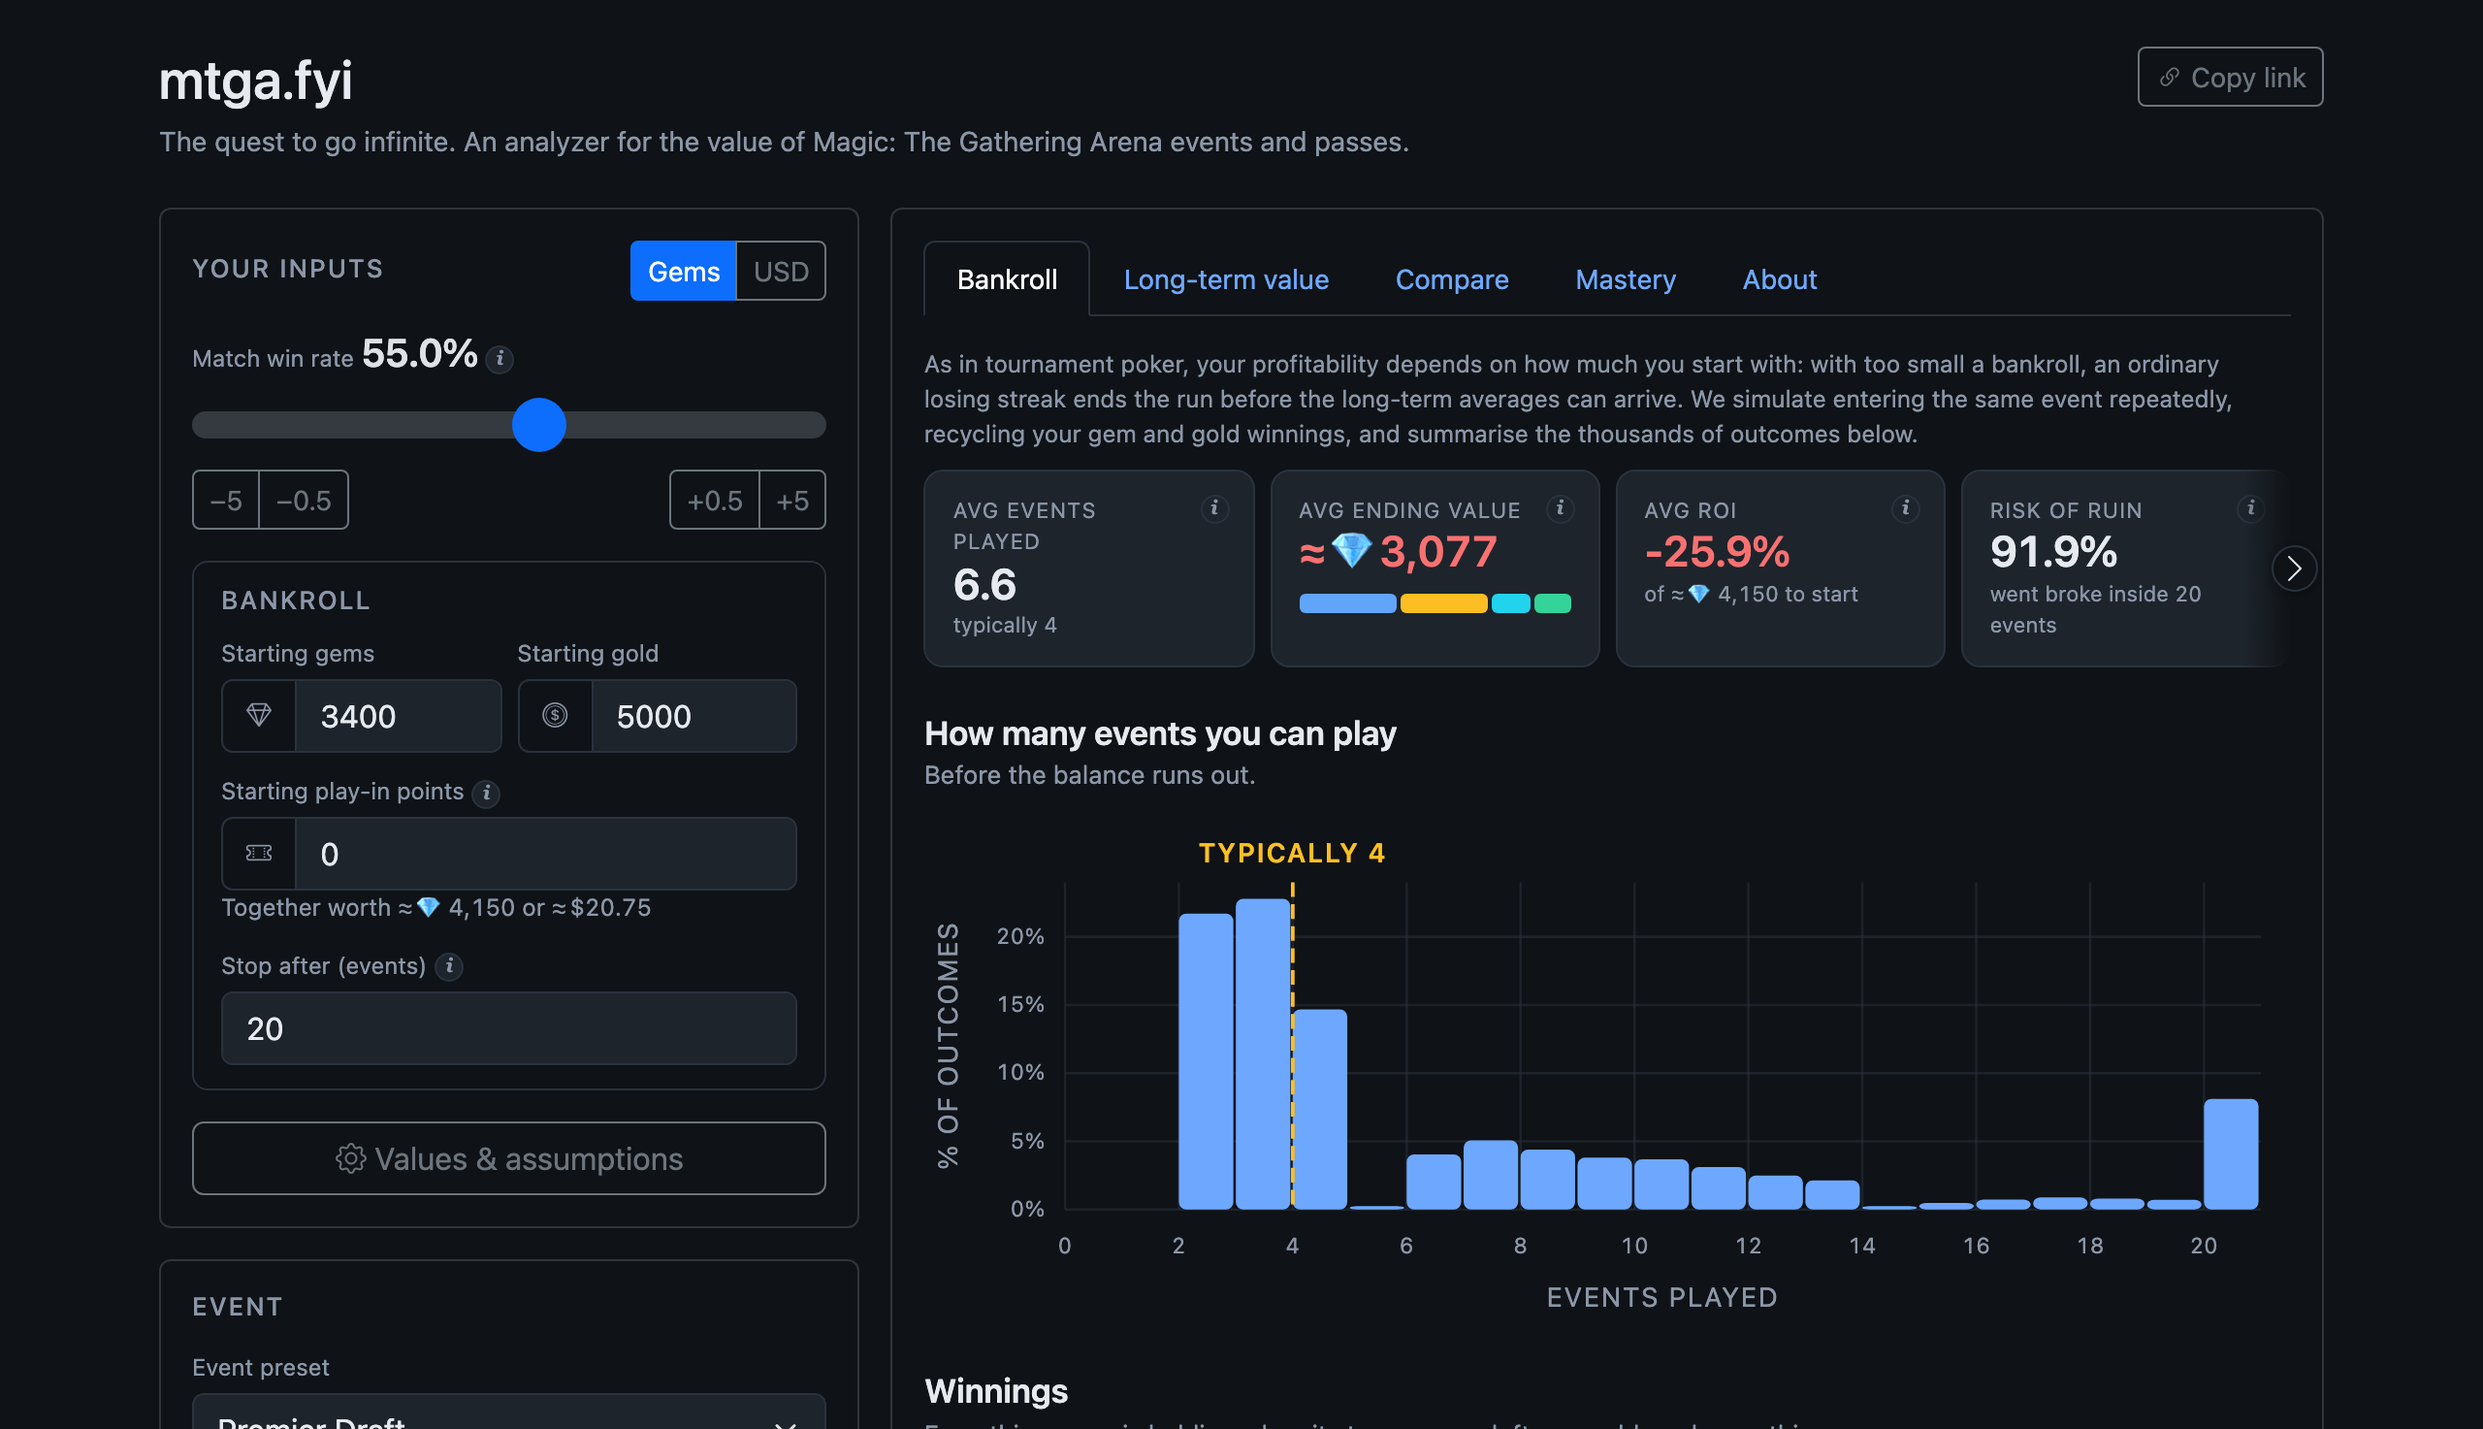
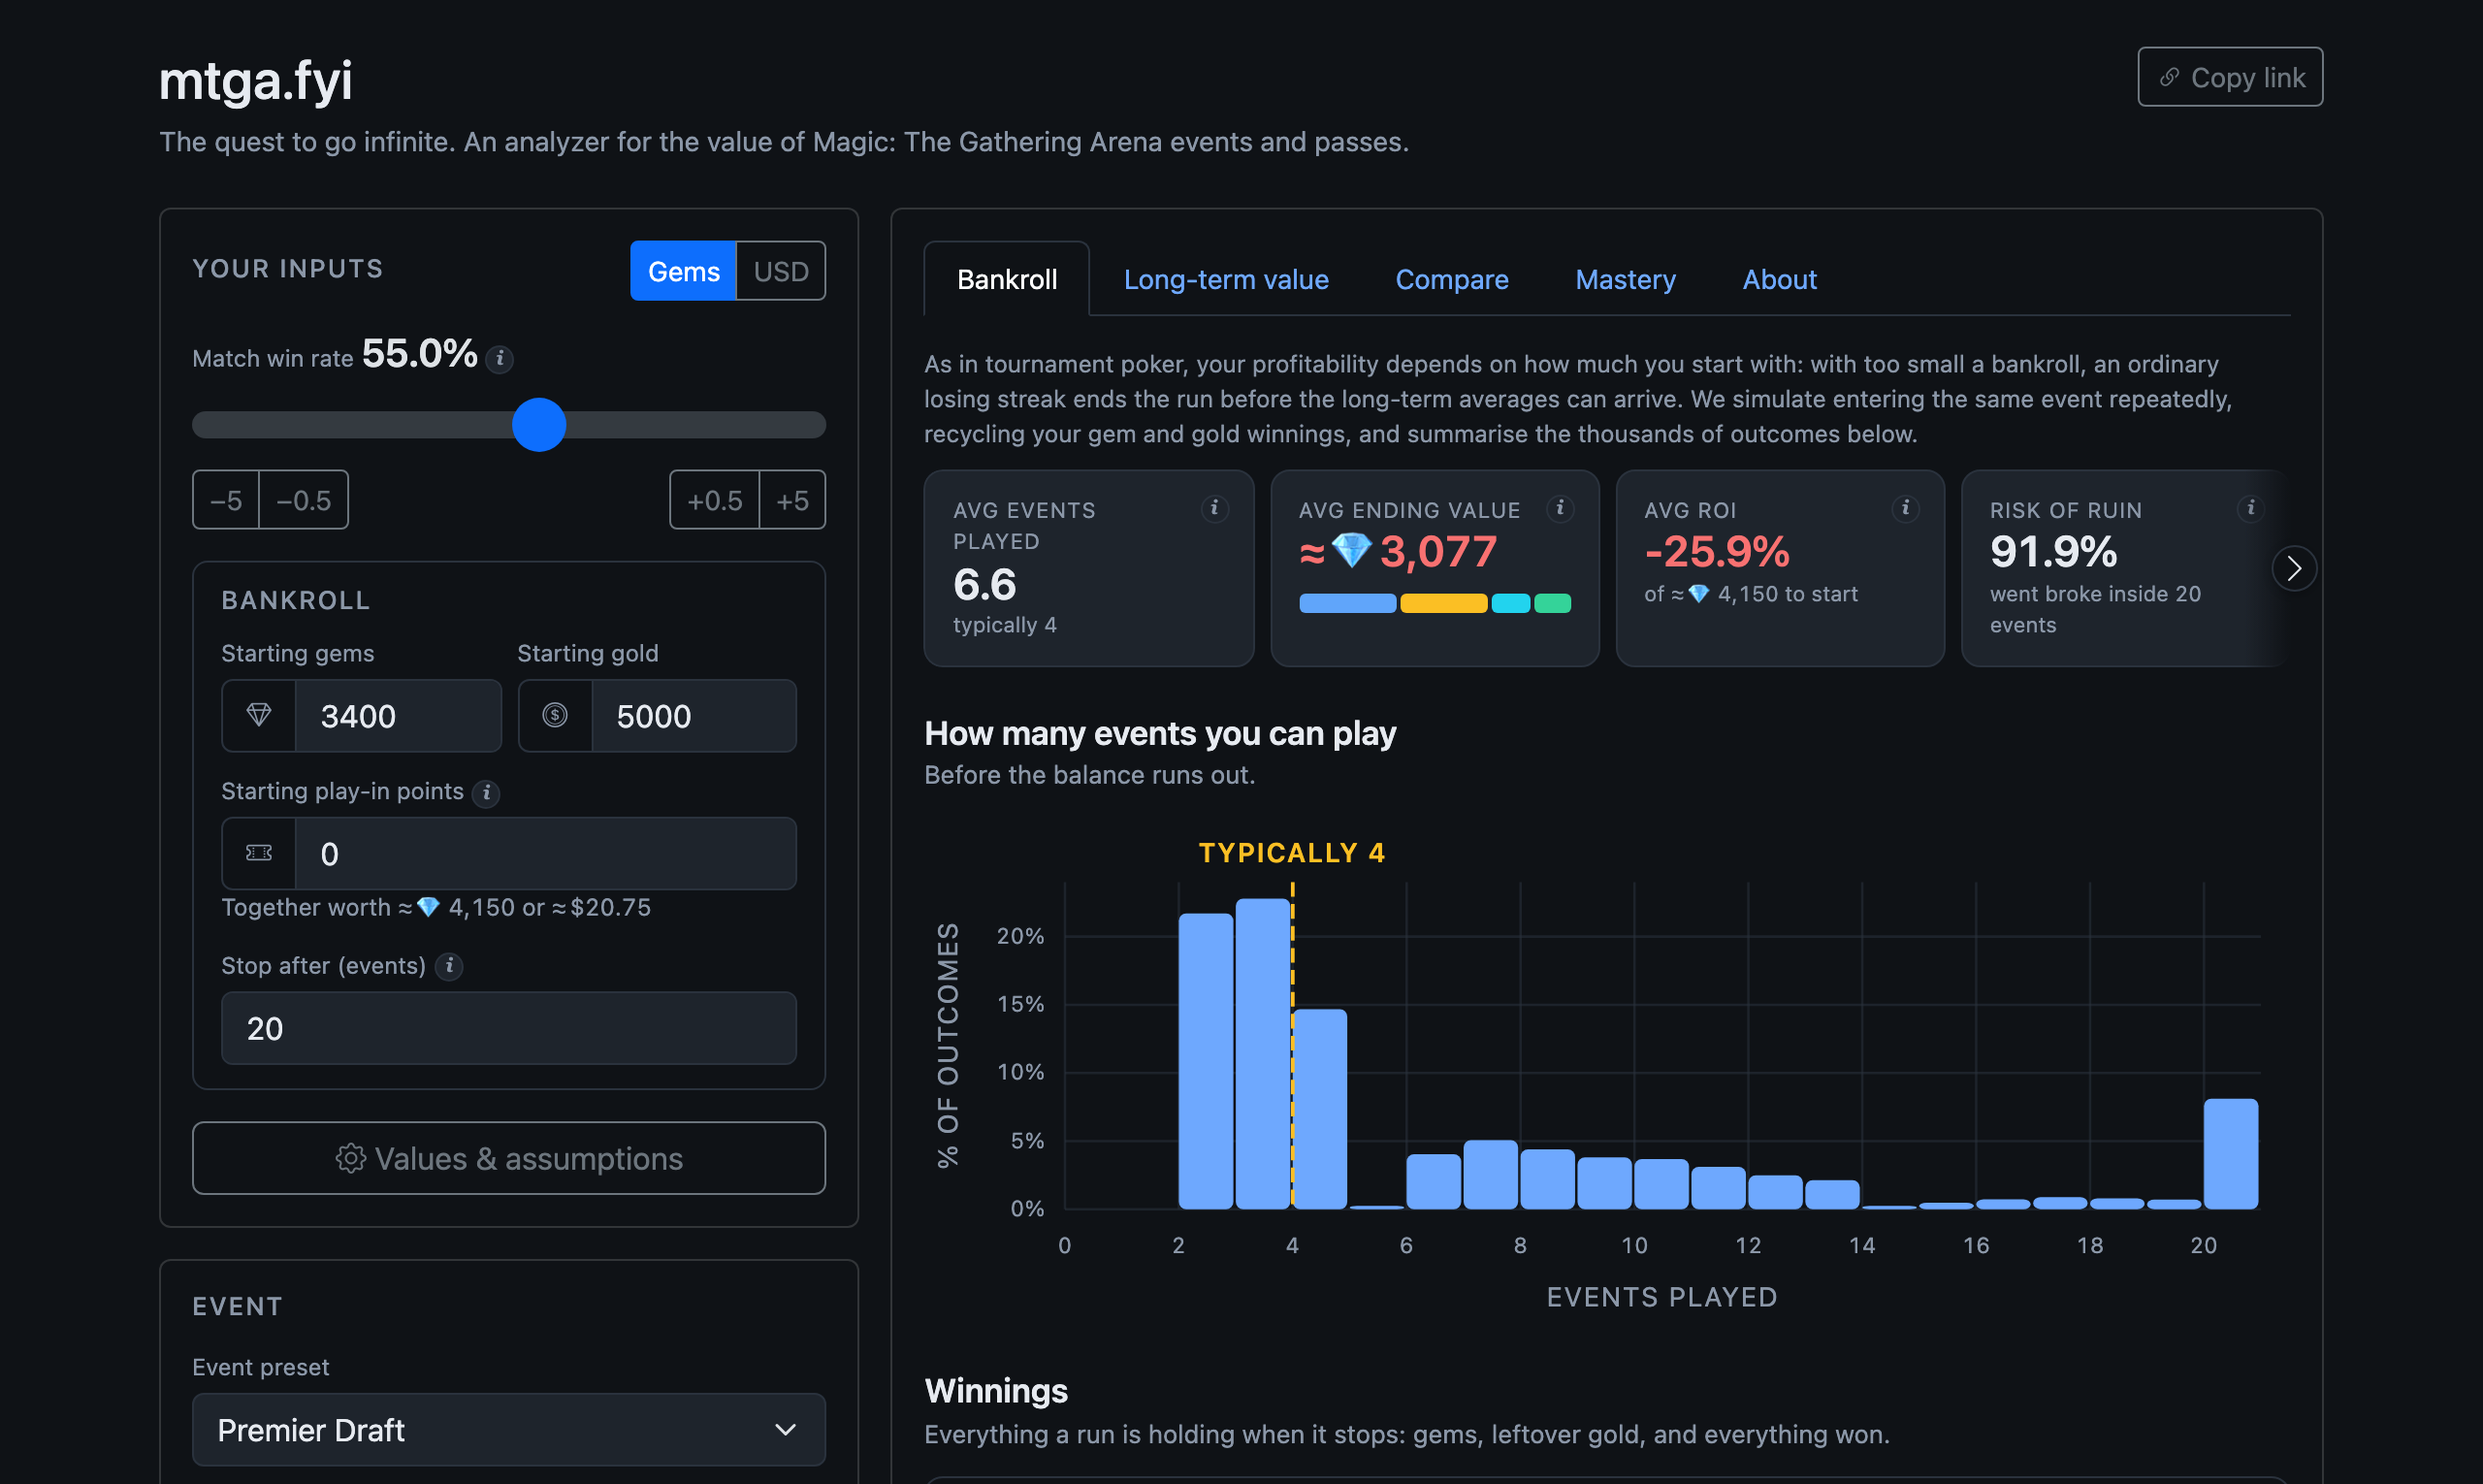
Extend the README crop down to the event preset selector
2560x1530 rather than 1473: the crop now ends just under the Premier
Draft dropdown instead of slicing through it, and the alt text names the
preset alongside the other inputs.

diff --git a/README.md b/README.md
@@ -5,7 +5,7 @@ Arena events and passes.
 
 **<https://mtga.fyi>**
 
-[![The top of the app: win rate and bankroll inputs on the left; on the right
+[![The top of the app: win rate, bankroll and event preset on the left; on the right
 a bankroll run's summary figures and a histogram of events played before
 running out. Click for the full screenshot, which continues into the payout
 schedule, the distribution of ending value, and one sampled run broken out
